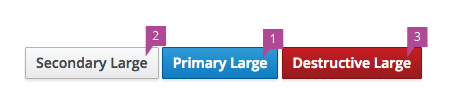
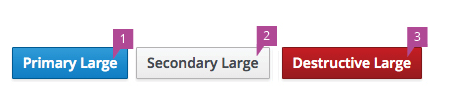
Updating based on feedback: Changing order or annotated buttons in image to align with supporting text, adding "States" section to cover references to base bootstrap styling for active and disabled buttons, format fixes.

Changed region(s): [[0.0, 0.2243, 0.6476, 0.757]]

diff --git a/pattern-library/widgets/buttons/design.md b/pattern-library/widgets/buttons/design.md
@@ -5,17 +5,22 @@
   - Buttons should be of equal height. Varying button height can be distracting to the user and give inadvertent importance of one button over another. Do not combine differing sizes within the same row.
   - Three sizes of buttons are offered.
     1. Default.
-    1. Large.
-    1. Extra Small.
+    2. Large.
+    3. Extra Small.
 
 ![Button Sizing](img/button-sizing-annotated.png)
 
 ## Color
 
   - There are four different button colors with specific meanings:
-    1. Primary button blue: Use for primary call to action on page/modal. Each page should have one clear call to action, so there should never be more than one primary button used on a single page. There is an accessibility reason being that on enter the primary button should be enacted. It's possible that there could be no primary action button on a page.
-    1. Secondary button gray: This will be the majority of the buttons used in an application. Any button that exists on a page that isn't a primary call to action should use this color.
-    1. Destructive button red: This color should be reserved for highly destructive actions only. Most simple "Delete" or "Cancel" functions are not highly destructive. Evaluation should be done to agree that a button meets the highly destructive criteria. One examples of a highly destructive action would be allowing the user to delete all hosts that a system is dependent on to run.
-    1. Disabled button : A button that could become enabled, but is currently not available should use this state.
+    1. **Primary Button:** The primary button is blue. It should be used for the primary call to action on page/modal. Each page should have one clear call to action, so there should never be more than one primary button used on a single page. There is an accessibility reason being that on enter the primary button should be enacted. It's possible that there could be no primary action button on a page.
+    2. **Secondary Button:** The secondary button is gray. This will be the majority of the buttons used in an application. Any button that exists on a page that isn't a primary call to action should use this color.
+    3. **Destructive Button:** The destructive button is red. This color should be reserved for highly destructive actions only. Most simple "Delete" or "Cancel" functions are not highly destructive. Evaluation should be done to agree that a button meets the highly destructive criteria. One examples of a highly destructive action would be allowing the user to delete all hosts that a system is dependent on to run.
 
 ![Button Colors](img/button-colors-annotated.png)
+
+## State
+
+  - There are a few state changes that each of the buttons could take on:
+    1. **Active State:** Buttons will appear pressed when active. This treatment is based on the [base bootstrap styling](https://v4-alpha.getbootstrap.com/components/buttons/#active-state).
+    2. **Disabled State:** Buttons that could become enabled, but are currently not available. This treatment is based on the [base bootstrap styling](https://v4-alpha.getbootstrap.com/components/buttons/#disabled-state).

diff --git a/pattern-library/widgets/buttons/overview.md b/pattern-library/widgets/buttons/overview.md
@@ -3,20 +3,20 @@ Buttons communicate an action that the user can take when they interact with the
 
 ## Usage Examples
 
-  1. Close button:
+  1. **Close Button:**
     - If closing a modal, follow the [Modal Widget](https://www.patternfly.org/pattern-library/widgets/#modal) guidelines.
     - If referring to closing another type of view use "Close" as a secondary button.
-  1. Delete button:
+  1. **Delete Button:**
    - "Delete" should be used in a secondary button unless you have a limited use case where the Delete action is a highly destructive action. In that case, use the destructive button. Ideally, a delete button would be followed up with a confirmation modal for the user to confirm this action.
-  1. Cancel button:
+  1. **Cancel Button:**
    - "Cancel" should be used in a secondary button unless you have a limited use case where the Cancel action is a highly destructive action. In that case, use the destructive button.
-  1. Buttons within the toolbar (Above list view, table view, card view):
+  1. **Buttons within the Toolbar (Above List View, Table View, Card View):**
    - Refer to the [Toolbar Pattern](https://www.patternfly.org/pattern-library/forms-and-controls/toolbar/#_) and the guidelines above when formatting buttons in a toolbar above a content view.
-  1. Buttons within a modal:
+  1. **Buttons within a Modal:**
    - Refer to the [Modal Widget](https://www.patternfly.org/pattern-library/widgets/#modal) and the guidelines above when formatting buttons in a modal.
-  1. Buttons within a wizard:
+  1. **Buttons within a Wizard:**
    - Refer to the [Wizard Pattern](https://www.patternfly.org/pattern-library/communication/wizard/#/_design) and the guidelines above when formatting buttons in a wizard.
-  1. Buttons within a form:
+  1. **Buttons within a Form:**
    - Refer to the [Form Pattern](https://www.patternfly.org/pattern-library/forms-and-controls/forms/#_) and the guidelines above when formatting buttons in a form.
 
 
